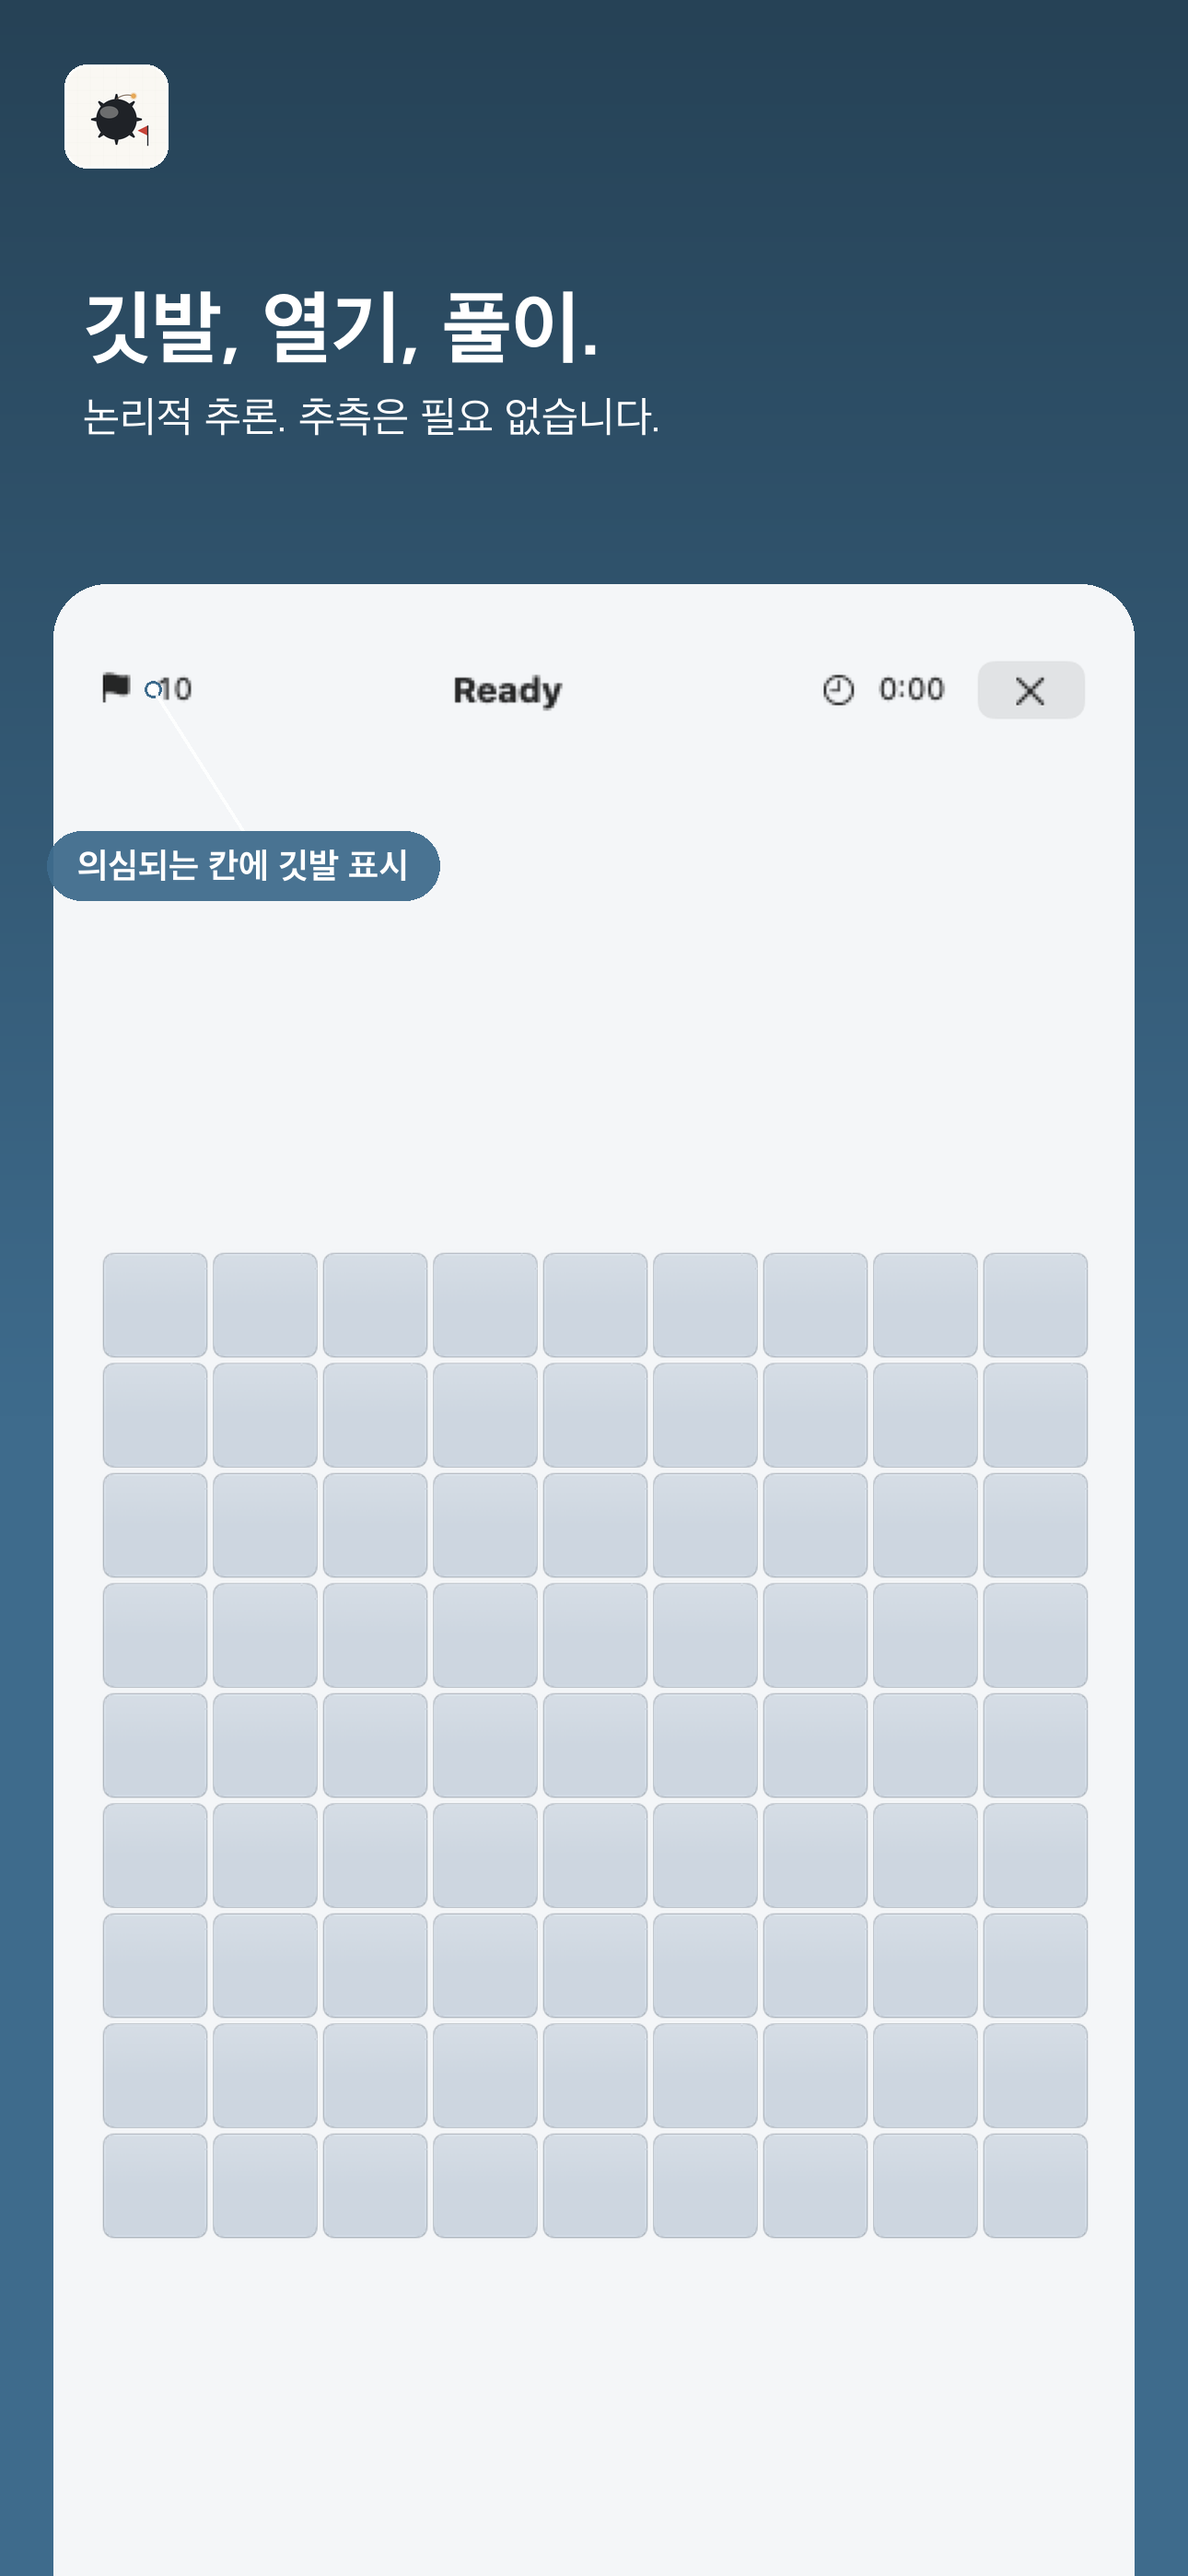
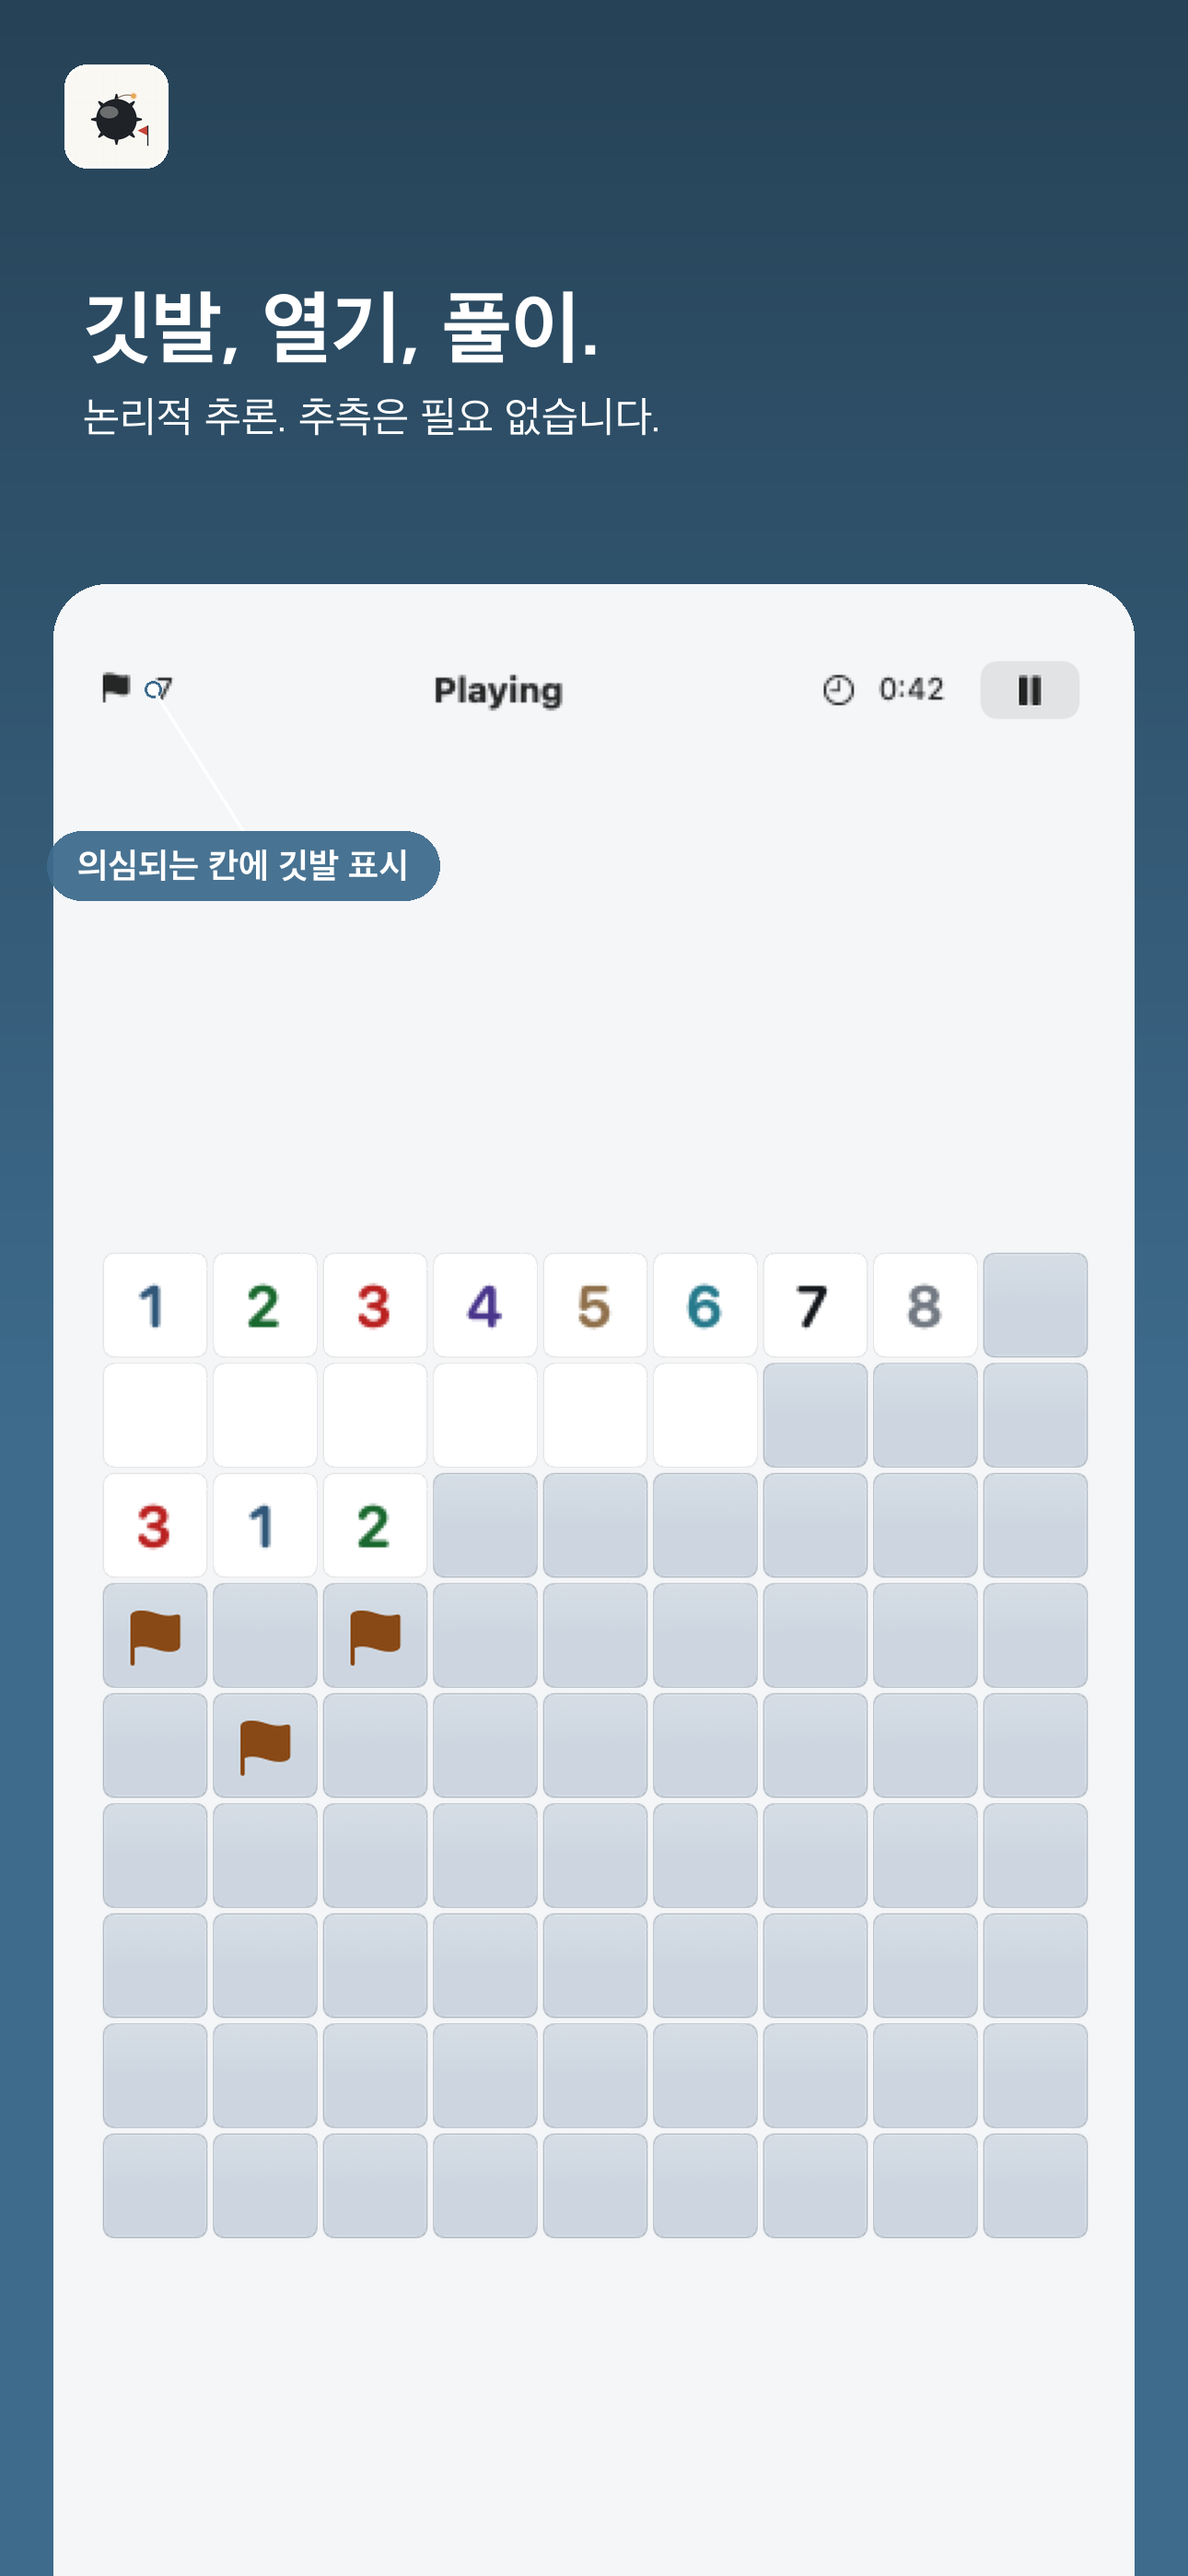
fix(store): widen fixture audit to every suite dir, fix #979 mis-cites
- MS iPhone Board: swap `beginner-covered` (untouched, all-grey grid) to
  `beginner-flagged` from a sibling suite (MinesweeperBoardRevealedSnapshotTests)
  round 1's per-slot-suite-only search missed. `flagged` is `midReveal`'s
  revealed number cells plus three placed flags, matching both verbs in
  "Flag, reveal, solve." in one frame. Re-verified the iPhone callout (no
  grid to overlap, header-chrome anchor unaffected) across all 7 locales.
- Corrected every "#979" citation in the script and strategy doc describing
  this pipeline's own chip-overlap/crop history — #979 is an unrelated
  macOS snapshot-baselines PR. Dropped the invented reference rather than
  leave a pointer that sends the next reader somewhere wrong.
- Added the chip_max_w lesson directly in the CALLOUTS comment: any
  `chip_at` callout needs a chip_max_w sanity check as a matter of course,
  not just the slot someone happens to touch that round.
- Documented (not applied) two round-2 findings that trade fullness against
  something already reviewed/shipped rather than against pure emptiness:
  Sudoku Board's `pencilNotes` fixture (real in-grid notes, but no error
  cell for the existing "catches mistakes instantly" callout to anchor to)
  and Sudoku Settings' `appStoreRows` fixture (3 more real rows, but only
  recorded in the unpurchased $2.99 state). Also logged the suites
  reviewed and rejected (loss states, edge/failure states, unrelated
[…]

diff --git a/scripts/build-ascspec-screenshots.py b/scripts/build-ascspec-screenshots.py
@@ -213,7 +213,7 @@ CALLOUTS = {
         # Anchor dot = the red error cell (row0,col2) — the actual thing
         # "catches mistakes instantly" refers to. The OLD default (chip
         # dropped straight below the dot) landed on row2's live "9"/"8"
-        # cells — #979. A first `chip_at` attempt tried the empty block at
+        # cells. A first `chip_at` attempt tried the empty block at
         # columns 6-8 — that's real empty grid space, but the chip's own
         # width (measured: ~42% of canvas width for the longest label) means
         # centering it there pushes past the right margin, and the margin
@@ -243,7 +243,7 @@ CALLOUTS = {
     }],
     ("minesweeper", "03-board"): [{
         # iPad: the default below-anchor drop landed the chip on the covered
-        # grid tiles — #979. `chip_at` moves the chip into the right-hand
+        # grid tiles. `chip_at` moves the chip into the right-hand
         # control column, well below the Reveal button (both measured off
         # the baseline: grid's own right edge, and the button's bottom
         # edge). fx is deliberately far enough right that draw_callout_chip's
@@ -260,6 +260,12 @@ CALLOUTS = {
         # ~772px of actual blank column space measured off the baseline —
         # long enough to spill left onto the grid's rightmost cells. Capping
         # at 30% of canvas width forces those into a second line instead.
+        # LESSON: this is what happens when a `chip_at` callout is verified
+        # against one locale's chip width instead of measured space — any
+        # CALLOUTS entry that sets `chip_at` (squeezing the chip next to a
+        # fixed-position UI element rather than dropping it into open canvas)
+        # needs a `chip_max_w` sanity check as a matter of course, not just
+        # the slot someone happens to be touching that round.
         "anchor": {"iphone-6.9": (0.092, 0.045), "ipad-13": (0.700, 0.016)},
         "chip_at": {"ipad-13": (0.850, 0.200)},
         "chip_max_w": {"ipad-13": 0.30},
@@ -332,8 +338,8 @@ SLOTS = {
         "minesweeper": [
             Slot("01-home", "MinesweeperHomeSnapshotTests", "Home-iPhone-light-compact", "snapshotHome_iPhone_light"),
             Slot("02-daily", "MinesweeperDailyHubSnapshotTests", "Daily-iPhone-light-streak2", "snapshotDaily_iPhone_light_streak"),
-            Slot("03-board", "MinesweeperBoardSnapshotTests", "Board-iPhone-light-beginner-covered",
-                 "snapshotBeginnerCovered_iPhone_light"),
+            Slot("03-board", "MinesweeperBoardRevealedSnapshotTests", "Board-iPhone-light-beginner-flagged",
+                 "snapshotFlagged_iPhone_light"),
             Slot("04-completion", "MinesweeperCompletionSnapshotTests", "Completion-iPhone-light-win-reminder",
                  "snapshotWinDailyReminder_iPhone_light"),
         ],
@@ -509,7 +515,7 @@ def detect_content_bottom(img: Image.Image, bg_color: tuple[int, int, int], tole
     by more than `tolerance` — one test that handles both baseline shapes in
     this pipeline: a full opaque device screenshot (content ends where the
     List/Form's own cream background starts) and a floating hero-reveal card
-    on a transparent canvas (content ends where alpha drops to ~0). #979."""
+    on a transparent canvas (content ends where alpha drops to ~0)."""
     rgba = img if img.mode == "RGBA" else img.convert("RGBA")
     w, h = rgba.size
     px = rgba.load()
@@ -676,7 +682,7 @@ def build_asc_image(baseline_path: Path,
       - Device screenshot, full canvas width minus side margins, rounded top
         corners, bottom edge bleeding past the canvas edge (PIL clips
         automatically — no bezel/frame drawn around it). Cropped to its
-        content-bearing region first (#979) so the bleed cuts into content,
+        content-bearing region first so the bleed cuts into content,
         never a large flat area of the screenshot's own dead space.
       - Direction B: callout chips + leader lines anchored to specific UI,
         positioned in normalized screen-fraction coordinates (CALLOUTS above)
@@ -760,7 +766,7 @@ def build_asc_image(baseline_path: Path,
     # ── Device screenshot: full width minus margins, rounded top corners,
     #    bottom bleeds past the canvas edge when content reaches that far ──
     #
-    # #979: bleeding the FULL baseline (device-height) screenshot let the
+    # Bleeding the FULL baseline (device-height) screenshot let the
     # panel's dead-space tail (a scrolled list's own empty background below
     # its last row) become the thing that bleeds, not the content — some
     # slots (Home: 49% content, Daily: 39%, Settings: 52%) showed a large

diff --git a/docs/app-store/screenshot-strategy.md b/docs/app-store/screenshot-strategy.md
@@ -241,7 +241,7 @@ Audited, kept as-is (no honest fuller candidate exists):
 - **Sudoku Board**: `inProgress` (half-filled grid + one red error cell) is
   the *message-correct* choice, not the emptiest — the Direction-B callout
   chip is anchored to that red error cell to sell "catches mistakes
-  instantly" (#979). A fuller-looking `almostComplete` sibling exists but has
+  instantly". A fuller-looking `almostComplete` sibling exists but has
   no error highlighted, which would silently break the callout's claim.
   Kept `inProgress`.
 - **Sudoku Completion**: `loaded` vs. sibling `noLeaderboard` differ only in
@@ -274,7 +274,7 @@ in the script.
 ### Chip-width overflow — found by re-verifying every locale, not just `en`
 
 Auditing every callout chip across all 7 locales (not just the `en` used to
-verify the previous round, #979) found MS iPad Board's chip overlapping the
+verify the previous round) found MS iPad Board's chip overlapping the
 grid's rightmost cells for ja/es/th — those translated labels (790–868px)
 are wider than the ~772px of actual blank column space next to the grid,
 which `en`'s shorter label (662px) happened to fit inside without ever
@@ -287,3 +287,77 @@ new `chip_max_w` key in the `CALLOUTS` dict, currently only on
 `("minesweeper", "03-board")`'s `ipad-13` entry — the one placement proven
 to need it; the other three callout slots' available space was re-verified
 per-locale and left alone.
+
+### Fullness audit, round 2 — widened to every suite directory, not just the slot's own
+
+Round 1 only compared each baseline against siblings in its OWN
+`__Snapshots__/<Suite>/` folder. Widening the search to every suite
+directory in each package turned up better candidates that round 1's
+narrower method structurally could not see.
+
+Swapped:
+- **Minesweeper Board (iPhone)**: `beginner-covered`
+  (`MinesweeperBoardSnapshotTests` — every tile covered, status "Ready",
+  timer 0:00) → `beginner-flagged` (`MinesweeperBoardRevealedSnapshotTests`
+  — same suite that also holds `midReveal`). `flagged` is `midReveal`'s
+  revealed number cells (colour-coded 1–8, status "Playing", timer 0:42)
+  PLUS three flags placed on covered cells — a strict superset, and it
+  depicts both verbs the headline promises ("Flag, reveal, solve.") in one
+  frame, not just one. No iPad variant exists in that suite, so iPad keeps
+  `beginner-covered` (documented gap, not silently left stale). iPhone's
+  callout uses the default below-anchor drop (no `chip_at`, no grid to
+  overlap) anchored to the flag-count header, which is identical UI chrome
+  regardless of board content — re-verified at full res post-swap, still
+  clear.
+
+Reviewed and rejected (evaluated, not just skipped):
+- **Minesweeper**, `MinesweeperBoardRevealedSnapshotTests/mineHit` and
+  `MinesweeperBoardTerminalOverlaySnapshotTests/terminalOverlay`: both are
+  loss states ("Boom", red mine glyph) — losing is not what we're selling.
+- **Sudoku**, `BoardViewDigitFirstTests/armedDigit`: a number-pad selection
+  highlight, no pencil notes, no error cell — no more relevant to Board's
+  headline than the current `inProgress`.
+- **Sudoku**, `BoardViewBannerTests`: ad-banner-reservation states, not a
+  fuller version of anything in the current 5-shot storyline.
+- Suites with no state relevant to any of the 5 slots (Sudoku:
+  `PracticeHubViewTests`, `StatsViewTests`, `ToastTests`,
+  `AudioSettingsSectionTests`, `ReminderSettingsSectionTests`,
+  `SettingsIAPRowTests`, `BannerSlotDarkBandRegressionTests`,
+  `BoardLoaderViewFailedExitTests`; Minesweeper: `MinesweeperStatsTests`,
+  `MinesweeperBoardLoaderViewFailedExitTests`) — different screens
+  entirely, or failure/edge states, not alternate happy-states of a slot
+  already in use.
+
+**Found, NOT applied — flagging for a decision rather than swapping
+unilaterally**, because both trade off against something already reviewed
+and shipped in round 1, not just against emptiness:
+
+- **Sudoku Board**: `BoardViewPencilNotesTests/pencilNotes` shows REAL
+  pencil/candidate notes rendered inside grid cells (e.g. a full `1 2 3 4 5
+  6 7 8 9` candidate cell) — the literal thing the headline "Notes the way
+  you write them." promises, which the current `inProgress` fixture does
+  NOT actually show (its grid has zero pencil marks; what reads as
+  "notes-ish" there is only the number-pad's per-digit remaining-count
+  subscript, not an in-grid note). But `pencilNotes` has no red error cell
+  anywhere (confirmed: zero red pixels, scanned) — the Direction-B chip
+  "Catches mistakes instantly" has nothing to anchor to if we swap, since
+  that specific, already-translated claim depends on a visible mistake.
+  Recommendation: this is a real gap (the headline's #1 promise is
+  currently unproven), but swapping trades a proven, reviewed callout claim
+  for it — worth a call rather than a silent swap.
+- **Sudoku Settings**: `SettingsViewAppStoreRowsTests` shows three more real
+  rows than the current `purchased` fixture — "Invite Friends" (under Game
+  Center) and "Share App" / "Write a Review" (under About). But its only
+  recorded variant is the UNPURCHASED state, so it also shows "Remove Ads
+  $2.99" where the current fixture deliberately shows the ad-free
+  "purchased" state instead. No variant combines the extra rows with
+  "purchased". Recommendation: more content vs. a screenshot that mentions
+  price for the first time — a marketing-intent call, not a pure fullness
+  one.
+- **Sudoku Completion**: `CompletionOverlayScaffoldTests/playAgain` has a
+  grey (not white) card, no `Mistakes:` row, and a "Play Again" button the
+  current `CompletionViewTests` fixtures never show. Unclear whether this
+  is the real production surface with a button our chosen fixture just
+  doesn't exercise, or an earlier/simpler test double for the shared
+  overlay scaffold — didn't find enough evidence either way to call it, so
+  left as-is pending someone who knows which component actually ships.
